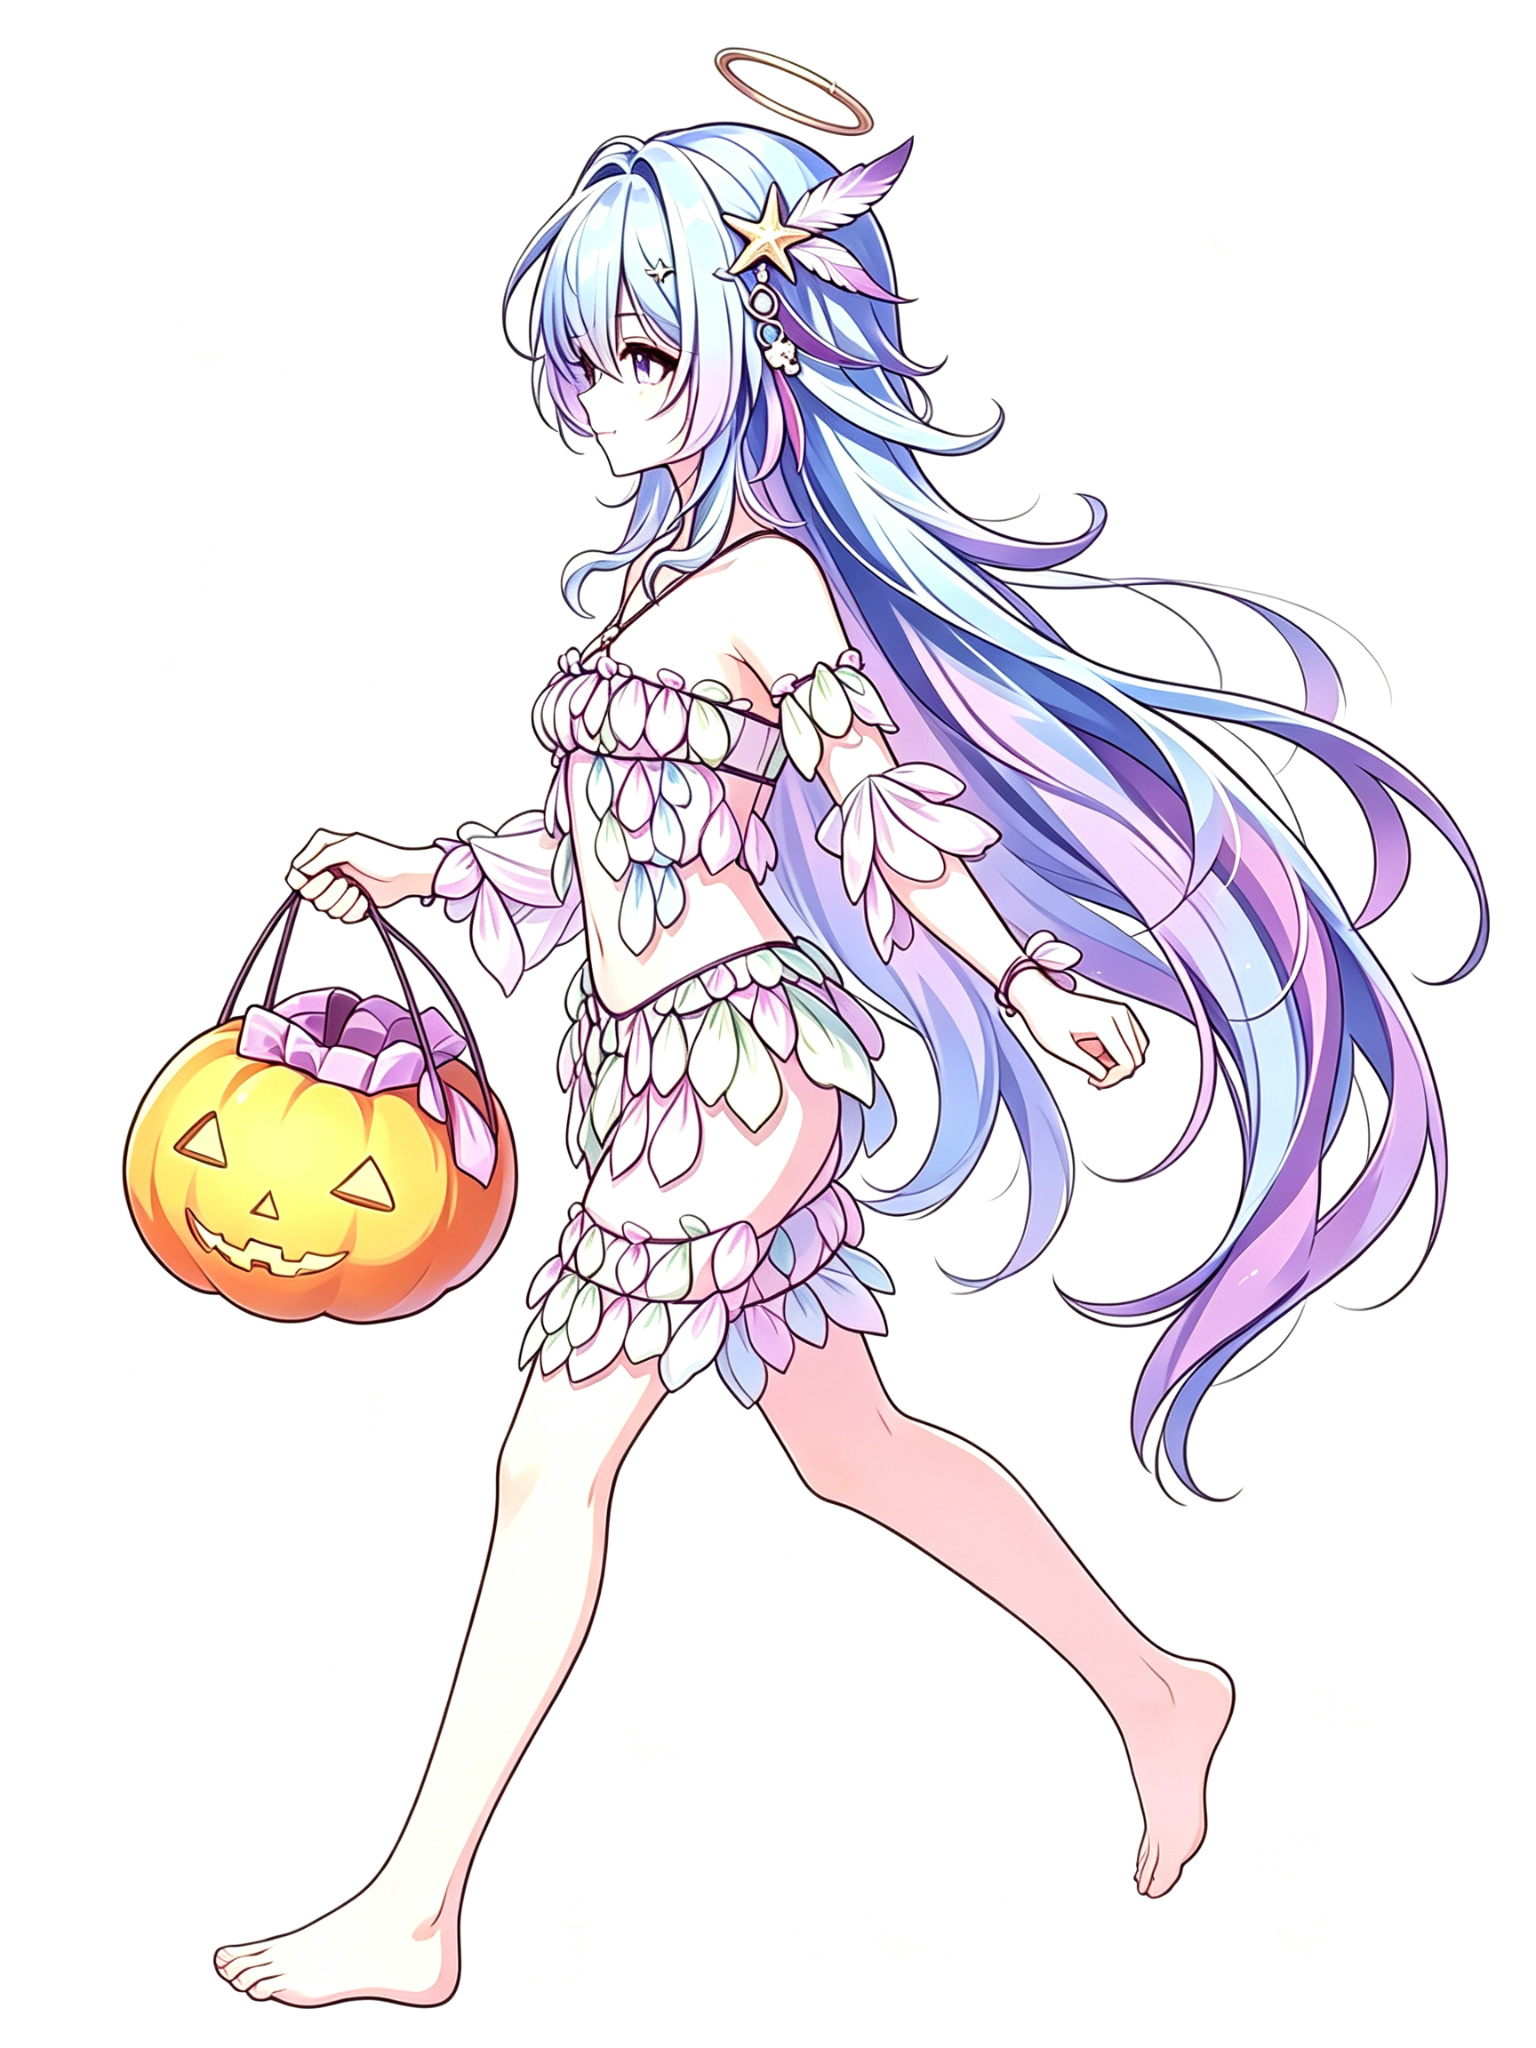
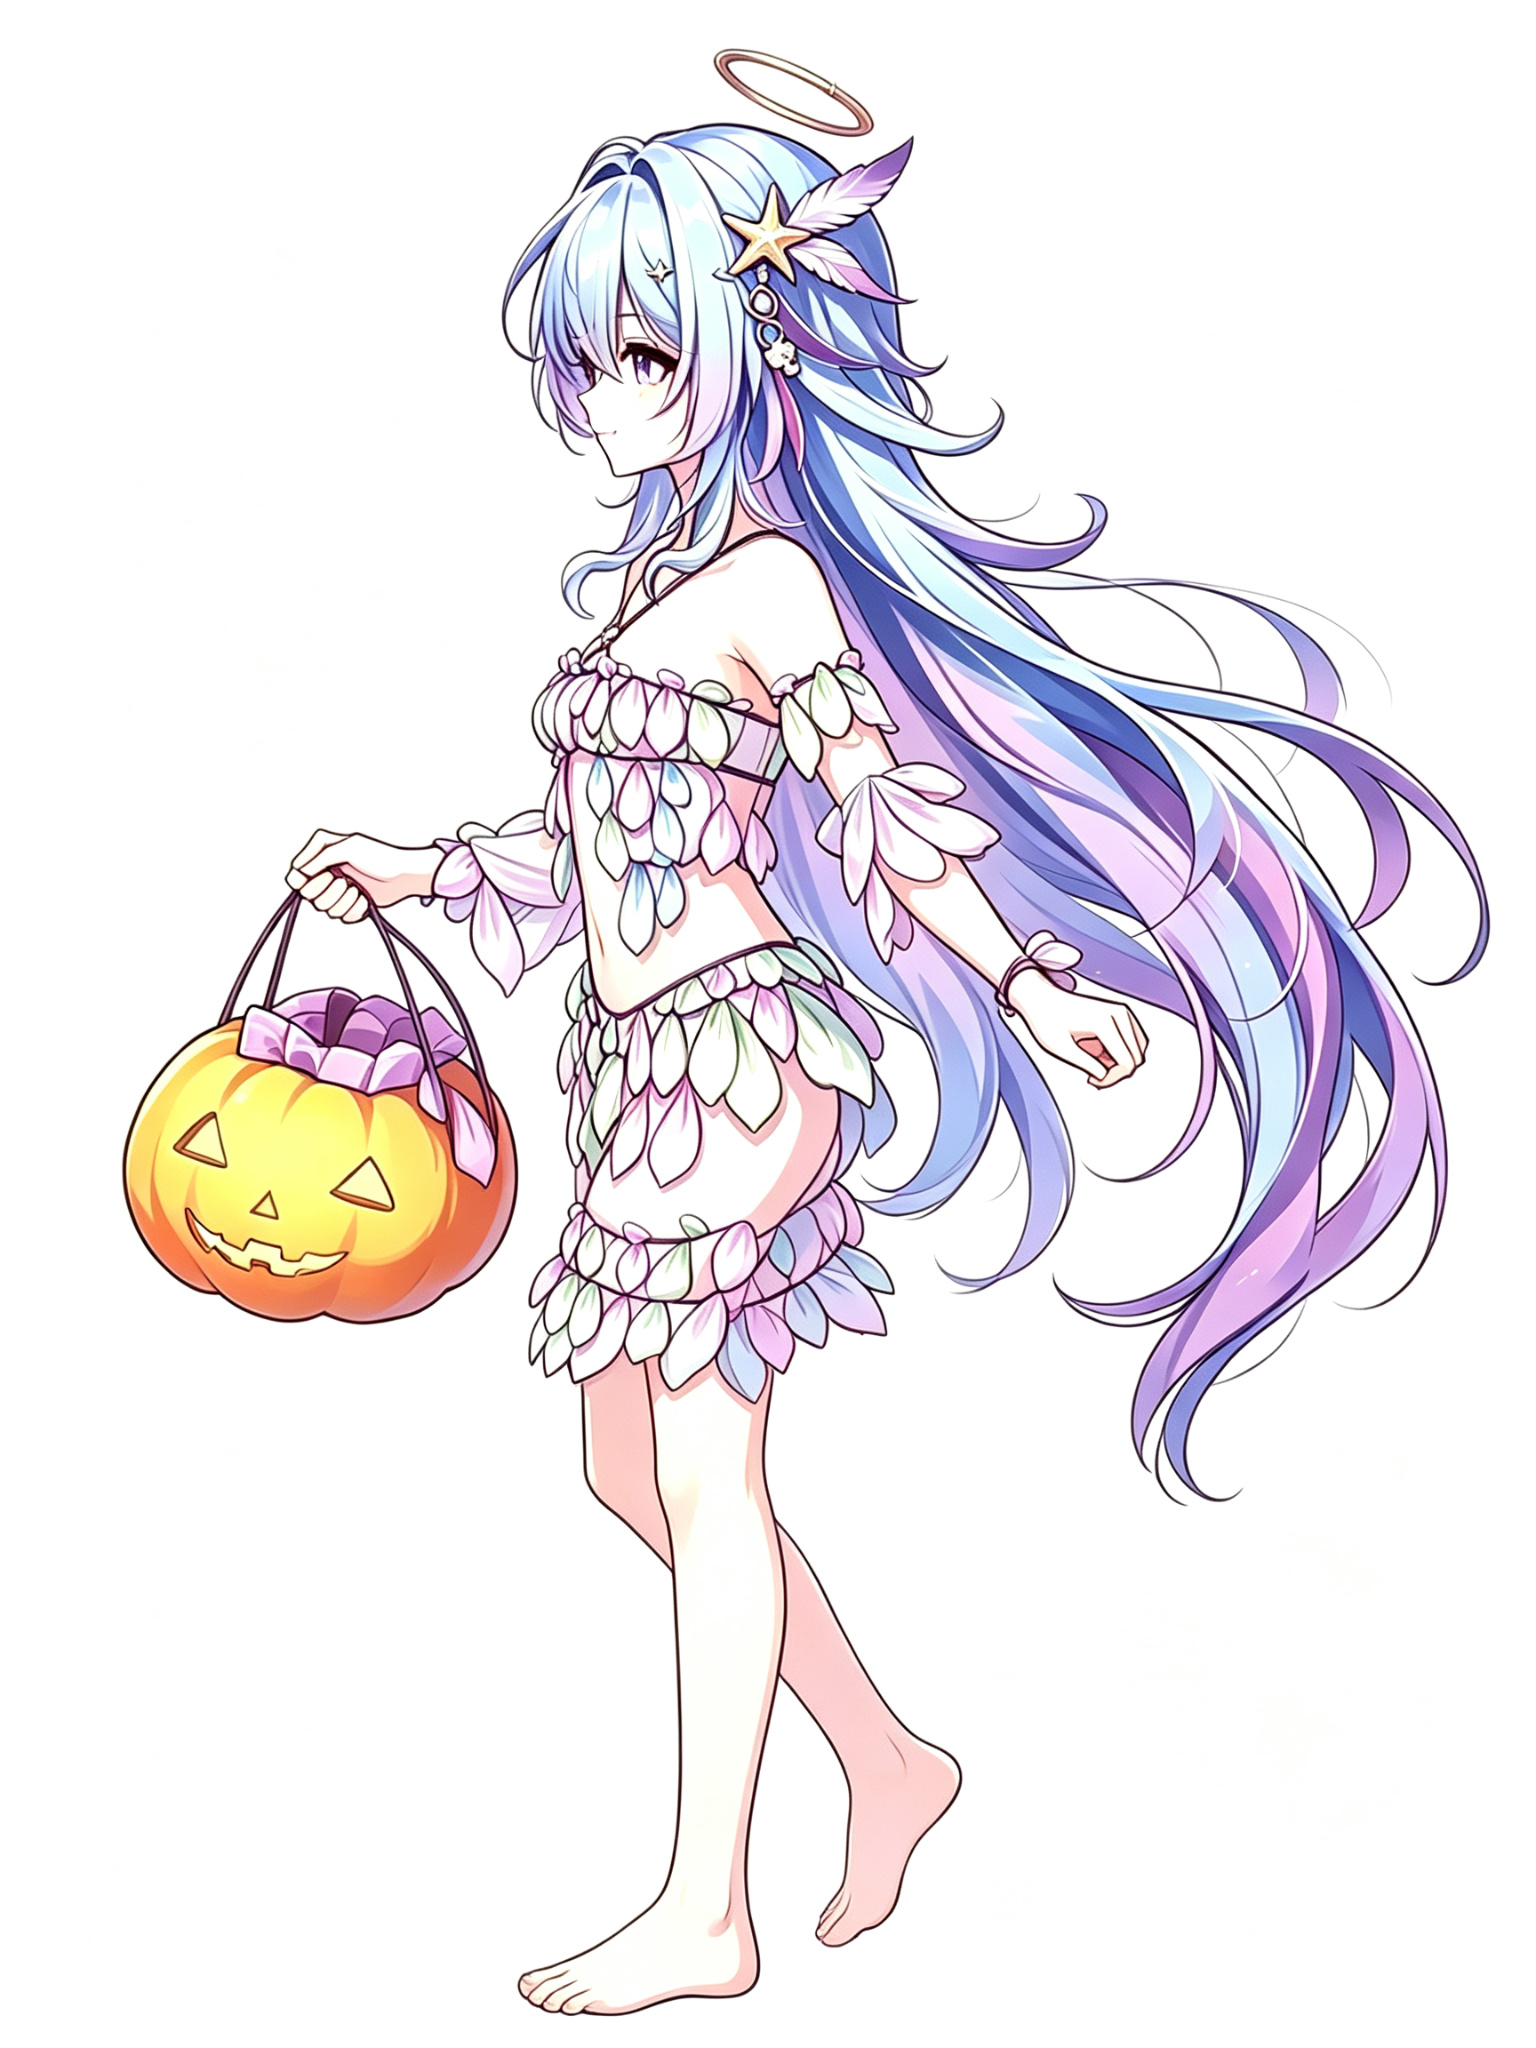
feat: 2.0.0 后全部工作汇总快照（QA 272/272）
git 仓库 .pack 文件曾丢失，中间 4 个提交(dcd7767/0ed980e/a6f143d/2108cab)
的对象不可恢复，仅剩 2.0.0 初始提交可用。本提交将当前完整工作树
（含此前全部成果）汇总落盘，作为新的可恢复检查点。

内容：
- 新增 walk/sleep/sad 状态（walk 12 帧整数命名、sleep 10、sad 12，各含 -r2）
- walk 源图/assets-raw/assets-processed 同步重命名为 walk-01..12（消除小数点）
- preprocess-v7.py 肤色保护放宽（r-b>3，修复 walk-07/08 前腿被误抠）
- build_wss.py render_new alpha 二值化（修复双腿间白底）；normalize 放大 sad/sleep
- 旧状态 96 个 -r2 由纯复制改为 R+1；tools/fix-src-for-qa.py src 兜底
  （idle/blink 缩放+模板、OCCUPANCY 缩至 409、GROUND 清底）
- qa-assets PASS 272/272

diff --git a/taozi-pet/tools/fix-src-for-qa.py b/taozi-pet/tools/fix-src-for-qa.py
@@ -1,0 +1,129 @@
+"""src/assets/pet 后处理，让 qa-assets 通过（学 fix-idle2.py + fix-occupancy.py）：
+1. idle/blink（lockedBody，宽/高各需 ≤2.5% 一致）：
+   - 轻微偏离(≤6%)的帧：缩放 crop 到中位盒(366x289 / 398x314)，保持中心/底边
+   - 严重偏离的帧：用 state-01 模板 + 小偏移(1-4px)替换（fix-idle2 思路）
+2. OCCUPANCY_TOO_LARGE：max_dim>409 的帧按比例缩到 409（fix-occupancy 思路）
+3. GROUND_RESIDUE(_REVIEW)：清掉角色脚底最底 1-2 行（地面/阴影带）
+4. 全部 -r2 重新生成 R+1（保证 DUPLICATE_FRAME 通过）
+"""
+import os
+import numpy as np
+from PIL import Image
+
+ASSET = os.path.join(os.path.dirname(__file__), '..', 'src', 'assets', 'pet')
+ASSET = os.path.abspath(ASSET)
+MAX_DIM = 409
+
+
+def bbox(a):
+    alpha = a[:, :, 3]
+    ys, xs = np.where(alpha > 16)
+    if not len(ys):
+        return None
+    return ys.min(), ys.max(), xs.min(), xs.max()
+
+
+def get_arr(name):
+    return np.array(Image.open(os.path.join(ASSET, name)).convert('RGBA'))
+
+
+def put_arr(name, arr):
+    Image.fromarray(arr).save(os.path.join(ASSET, name))
+
+
+def scale_to_box(arr, tw, th):
+    """crop 主体 → 缩放到 (宽tw, 高th) → 贴回，保持原中心 x 与底边 y。返回新 arr。
+    LANCZOS 边缘半透明会使可见 bbox 略小于目标，故缩放后二值化 alpha(≥128→255)。"""
+    t, b, l, r = bbox(arr)
+    cw, ch = r - l + 1, b - t + 1
+    center_x = l + cw // 2
+    sub = Image.fromarray(arr).crop((l, t, r + 1, b + 1)).resize((tw, th), Image.LANCZOS)
+    sub_arr = np.array(sub)
+    sub_arr[:, :, 3] = (sub_arr[:, :, 3] >= 128).astype(np.uint8) * 255
+    canvas = Image.new('RGBA', (512, 512), (0, 0, 0, 0))
+    px = center_x - tw // 2
+    py = b - th + 1
+    canvas.paste(Image.fromarray(sub_arr), (px, py), Image.fromarray(sub_arr))
+    return np.array(canvas)
+
+
+def template_replace(state, target_frames, offsets):
+    """用 state-01 模板 + 小偏移替换指定帧（fix-idle2 思路）。"""
+    tmpl = get_arr(f'{state}-01.png')
+    for idx, off in zip(target_frames, offsets):
+        arr = np.zeros_like(tmpl)
+        dy, dx = off
+        sy, sx = max(0, dy), max(0, dx)
+        ey, ex = 512 + min(0, dy), 512 + min(0, dx)
+        ty, tx = -min(0, dy), -min(0, dx)
+        # 平移：arr[ty:ty+(ey-sy), tx:tx+(ex-sx)] = tmpl[sy:ey, sx:ex]
+        arr[ty:ty + (ey - sy), tx:tx + (ex - sx)] = tmpl[sy:ey, sx:ex]
+        put_arr(f'{state}-{idx:02d}.png', arr)
+        print(f'  template-replace {state}-{idx:02d} offset={off}')
+
+
+def fix_occupancy(name):
+    a = get_arr(name)
+    b = bbox(a)
+    if not b:
+        return
+    t, bt, l, r = b
+    md = max(bt - t + 1, r - l + 1)
+    if md > MAX_DIM:
+        cw, ch = r - l + 1, bt - t + 1
+        f = MAX_DIM / md
+        nw, nh = max(1, round(cw * f)), max(1, round(ch * f))
+        center_x = l + cw // 2
+        sub = Image.fromarray(a).crop((l, t, r + 1, bt + 1)).resize((nw, nh), Image.LANCZOS)
+        canvas = Image.new('RGBA', (512, 512), (0, 0, 0, 0))
+        px = center_x - nw // 2
+        py = bt - nh + 1
+        canvas.paste(sub, (px, py), sub)
+        put_arr(name, np.array(canvas))
+        print(f'  occupancy {name}: max_dim {md} -> {MAX_DIM}')
+
+
+def fix_ground(name, rows=1):
+    a = get_arr(name)
+    b = bbox(a)
+    if not b:
+        return
+    t, bt, l, r = b
+    a[bt - rows + 1:bt + 1, :, 3] = 0
+    put_arr(name, a)
+    print(f'  ground {name}: cleared bottom {rows} row(s)')
+
+
+def rer2(name):
+    a = get_arr(name)
+    m = a[:, :, 3] > 16
+    a[m, 0] = np.minimum(255, a[m, 0].astype(int) + 1).astype(np.uint8)
+    put_arr(name.replace('.png', '-r2.png'), a)
+
+
+def main():
+    # 1. idle: 缩放 05/06（目标 宽289 高366），模板替换 09/11/12
+    for n in ['idle-05.png', 'idle-06.png']:
+        a = get_arr(n)
+        print(f'  scale {n}: {bbox(a)[1]-bbox(a)[0]+1}x{bbox(a)[3]-bbox(a)[2]+1} -> 366x289')
+        put_arr(n, scale_to_box(a, 289, 366))
+    template_replace('idle', [9, 11, 12], [(2, 2), (3, 1), (1, 3)])
+    # 2. blink: 缩放 05（目标 宽314 高398）
+    a = get_arr('blink-05.png')
+    print(f'  scale blink-05: {bbox(a)[1]-bbox(a)[0]+1}x{bbox(a)[3]-bbox(a)[2]+1} -> 398x314')
+    put_arr('blink-05.png', scale_to_box(a, 314, 398))
+    # 3. OCCUPANCY
+    for n in ['notify-01.png', 'notify-10.png', 'notify-12.png',
+              'peek-02.png', 'pumpkin-bag-02.png', 'pumpkin-bag-09.png']:
+        fix_occupancy(n)
+    # 4. GROUND
+    fix_ground('pumpkin-bag-12.png', rows=2)
+    # 5. 全部 r2 重新生成 R+1
+    for f in sorted(os.listdir(ASSET)):
+        if f.endswith('.png') and not f.endswith('-r2.png'):
+            rer2(f)
+    print('DONE')
+
+
+if __name__ == '__main__':
+    main()

diff --git a/preprocess-v7.py b/preprocess-v7.py
@@ -17,8 +17,8 @@ import numpy as np
 from PIL import Image
 from collections import deque
 
-INPUT_DIR = r'C:\Users\Modern_eve\Doubao\chats\2026-08-12\new-chat\assets-raw'
-OUTPUT_DIR = r'C:\Users\Modern_eve\Doubao\chats\2026-08-12\new-chat\assets-processed'
+INPUT_DIR = r'D:\Documents\Doubao\chats\2026-08-12\new-chat\assets-raw'
+OUTPUT_DIR = r'D:\Documents\Doubao\chats\2026-08-12\new-chat\assets-processed'
 
 BG_THRESHOLD = 28
 FLOOD_STEP = 3
@@ -31,7 +31,9 @@ def get_protected_mask(arr, alpha):
     r = arr[:, :, 0].astype(int)
     g = arr[:, :, 1].astype(int)
     b = arr[:, :, 2].astype(int)
-    skin = (r > 170) & (g > 130) & (b > 90) & (r > g) & (g > b) & ((r - b) > 25)
+    # 肤色：r-b > 3 即可保护，避免高光像素（r-b≈6-11、距白色<28）被误判为背景。
+    # 纯白背景 r-b=0 仍不满足；南瓜色保持不变。
+    skin = (r > 150) & (g > 110) & (b > 70) & (r >= g) & (g >= b) & ((r - b) > 3)
     pumpkin = (r > 170) & (g > 110) & (b < 140) & ((r - b) > 70)
     return (skin | pumpkin) & (alpha > 16)
 
@@ -110,18 +112,17 @@ def fill_holes(alpha):
     return alpha
 
 def remove_bottom_lines(arr, alpha):
-    """保守清除底部横线"""
+    """保守清除底部横线：要求 std<15（极均匀颜色）且整行均值>240（接近白）"""
     h, w = arr.shape[:2]
-    # 检查底部 BOTTOM_LINE_HEIGHT 行内的横线
     for y in range(h - BOTTOM_LINE_HEIGHT, h):
         row_alpha = alpha[y, :]
         visible = row_alpha > 16
         if visible.sum() / w > BOTTOM_LINE_RATIO:
-            # 检查这一行是否主要是单一颜色（横线）
             row_pixels = arr[y, visible, :3]
             if len(row_pixels) > 0:
                 std = row_pixels.std(axis=0).mean()
-                if std < 20:  # 颜色一致，认为是横线
+                mean_val = row_pixels.mean()
+                if std < 15 and mean_val > 240:
                     alpha[y, :] = 0
     return alpha
 
